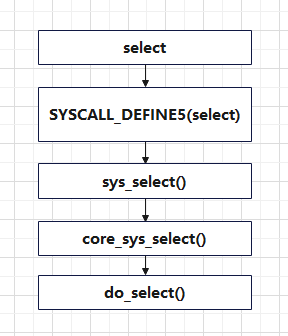
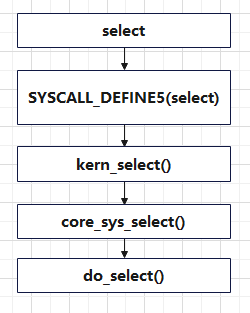
upload

diff --git a/06_Linux/04_Linux系统API/01_epoll接口.md b/06_Linux/04_Linux系统API/01_epoll接口.md
@@ -72,11 +72,104 @@
 >
 > 超时过期
 
-### 函数调用栈
+
+
+### 示例代码
+
+监听标准输入，设置超时时间为5S
+
+```c
+#include <stdio.h>
+#include <stdlib.h>
+#include <sys/time.h>
+#include <sys/types.h>
+#include <unistd.h>
+
+int main(void)
+{
+	fd_set rfds;
+	struct timeval tv;
+	int retval;
+
+	/* Watch stdin (fd 0) to see when it has input. */
+
+	FD_ZERO(&rfds);
+	FD_SET(0, &rfds);
+
+	/* Wait up to five seconds. */
+
+	tv.tv_sec = 5;
+	tv.tv_usec = 0;
+
+	retval = select(1, &rfds, NULL, NULL, &tv);
+	/* Don't rely on the value of tv now! */
+
+	if (retval == -1)
+		perror("select()");
+	else if (retval)
+		printf("Data is available now.\n");
+		/* FD_ISSET(0, &rfds) will be true. */
+	else
+		printf("No data within five seconds.\n");
+
+	exit(EXIT_SUCCESS);
+}
+```
+
+
+
+### 相关接口
+
+`fd_set`结构定义如下
+
+```c
+#define FD_SETSIZE 256
+typedef struct { uint32_t fd32[FD_SETSIZE/32]; } fd_set;
+```
+
+`FD_ZERO` 、`FD_SET`、 `FD_CLR`、`FD_ISSET`是 `POSIX` 标准中定义的宏，用于操作文件描述符集合（`fd_set`）。
+
+1. **FD_ZERO：** 这个宏用于将文件描述符集合清零，即清除集合中的所有文件描述符。通常用于初始化文件描述符集合，使其为空集。其原型如下：
+
+   ```c
+   void FD_ZERO(fd_set *set);
+   ```
+
+   其中，`set` 是一个指向 `fd_set` 结构体的指针，表示要清零的文件描述符集合。
+
+2. **FD_SET：** 这个宏用于将一个文件描述符添加到文件描述符集合中。其原型如下：
+
+   ```c
+   void FD_SET(int fd, fd_set *set);
+   ```
+
+   其中，`fd` 是要添加的文件描述符，`set` 是一个指向 `fd_set` 结构体的指针，表示要添加文件描述符的文件描述符集合。
+
+3. **FD_CLR：** 用于从文件描述符集合中清除（移除）一个文件描述符。
+
+   ```c
+   void FD_CLR(int fd, fd_set *set);
+   ```
+
+   其中，`fd` 是要清除的文件描述符，`set` 是一个指向 `fd_set` 结构体的指针，表示要清除文件描述符的文件描述符集合。
+
+4. **FD_ISSET：** 用于检查文件描述符集合中是否包含某个文件描述符。
+
+   ```c
+   int FD_ISSET(int fd, const fd_set *set);
+   ```
+
+   其中，`fd` 是要检查的文件描述符，`set` 是一个指向 `fd_set` 结构体的指针，表示要检查的文件描述符集合。如果文件描述符集合中包含指定的文件描述符，则返回非零值；否则返回零。
+
+
+
+### select函数调用栈
 
 ![01_select函数调用栈](.\img\01_select函数调用栈.png)
 
-### 源码分析
+
+
+#### 源码分析
 
 `select`方法的主要工作可分为3部分：
 
@@ -86,15 +179,124 @@
 
 `select`系统调用，最终的核心逻辑是在`do_select`函数中处理的，源码如下
 
-## do_select函数
+### kern_select函数
+
+计算函数超时时间，然后调用`core_sys_select`执行真正的`select`
+
+**核心逻辑如下**
+
+> 笔者注：下文代码已格式化处理，并适当简化只保留核心逻辑
+
+```c
+static int kern_select(int n, fd_set __user *inp, fd_set __user *outp,
+		       fd_set __user *exp, struct timeval __user *tvp)
+{
+	struct timespec64 end_time, *to = NULL;
+	struct timeval tv;
+	int ret;
+
+	if (tvp) {
+        // 从用户空间读取设置的超时时间
+		if (copy_from_user(&tv, tvp, sizeof(tv)))
+			return -EFAULT;
+
+		to = &end_time;
+        // 设置函数的的超时时间
+		if (poll_select_set_timeout(to,
+				tv.tv_sec + (tv.tv_usec / USEC_PER_SEC),
+				(tv.tv_usec % USEC_PER_SEC) * NSEC_PER_USEC))
+			return -EINVAL;
+	}
+
+	ret = core_sys_select(n, inp, outp, exp, to);
+	return poll_select_finish(&end_time, tvp, PT_TIMEVAL, ret);
+}
+```
+
+
+
+### core_sys_select函数
+
+**核心逻辑如下**
+
+> 笔者注：下文代码已格式化处理，并适当简化只保留核心逻辑
+
+```c
+int core_sys_select(int n, fd_set __user *inp, fd_set __user *outp,
+			   fd_set __user *exp, struct timespec64 *end_time)
+{
+	fd_set_bits fds;
+	void *bits;
+	int max_fds;
+	size_t size, alloc_size;
+	struct fdtable *fdt;
+	long stack_fds[SELECT_STACK_ALLOC/sizeof(long)];
+
+	fdt = files_fdtable(current->files);
+	// select可监控不能大于进程可打开的文件描述上限
+	max_fds = fdt->max_fds;
+	if (n > max_fds)
+		n = max_fds;
+
+	size = FDS_BYTES(n);
+	bits = stack_fds;
+	// 6个bitmaps对应(int/out/ex)
+	alloc_size = 6 * size;
+	bits = kvmalloc(alloc_size, GFP_KERNEL);
+
+	fds.in      = bits;
+	fds.out     = bits +   size;
+	fds.ex      = bits + 2*size;
+	fds.res_in  = bits + 3*size;
+	fds.res_out = bits + 4*size;
+	fds.res_ex  = bits + 5*size;
+
+	/*
+	 * 拷贝传入的inp、outp、exp的值存入fds的in、out、ex
+	 * 此处是将从用户空间传入的保存，后续传入内核空间
+	 */
+	get_fd_set(n, inp, fds.in);
+	get_fd_set(n, outp, fds.out);
+	get_fd_set(n, exp, fds.ex);
+
+	// 将fds的res_in、res_out、res_ex内容清零
+	zero_fd_set(n, fds.res_in);
+	zero_fd_set(n, fds.res_out);
+	zero_fd_set(n, fds.res_ex);
+
+	do_select(n, &fds, end_time);
+
+	/*
+	 * 使用入参的指针变量将执行后的fds结果传出
+	 * 将fds的res_in、res_out、res_ex结果拷贝到用户空间inp、outp、exp
+	 * 此处是将从内核空间的结果拷贝至用户空间
+	 */
+	set_fd_set(n, inp, fds.res_in);
+	set_fd_set(n, outp, fds.res_out);
+	set_fd_set(n, exp, fds.res_ex);
+
+	if (bits != stack_fds)
+		kvfree(bits);
+
+	return -EFAULT;
+}
+```
+
+**核心思想**
+
+`select`接口使用`fd_set_bits`结构保存记录文件描述符，`core_sys_select`函数中创建对应类型的变量。记录从用户空间传入的待检测文件描述符，使用`do_select`执行实际的监听动作，然后将结果传回用户空间。
+
+> 笔者注：严格地说数据在用户空间和内核空间互相传递并不是在这里完成的，经过`SYSCALL_DEFINE5(select)`的调用后已经进入内核态中。这里只是为方便理解而这样表述
+
+
+
+### do_select函数
 
 **函数核心思想**
 
-函数中，有几个关键的操作：
+函数主要做的事情，遍历传入的文件描述符检查哪些有变化
 
-1. 初始化`poll_wqueues`结构，包括几个关键函数指针的初始化，用于驱动中进行回调处理；
-2. 循环遍历监测的文件描述符，并且调用`f_op->poll()`函数，如果有监测条件满足，则会跳出循环；
-3. 在监测的文件描述符都不满足条件时，`poll_schedule_timeout`让当前进程进行睡眠，超时唤醒，或者被所属的等待队列唤醒；
+**函数整体采用了三层循环的设计，在下文中对这三层循环每一次进行讨论**
 
 **第一层循环**
 
@@ -328,9 +530,9 @@ for(;;)
 
 
 
-## file_operations->poll
+### file_operations->poll
 
-### 函数声明
+#### 函数声明
 
 在`linux-5.4\include\linux\fs.h`中可以看到`struct file_operations`的定义
 
@@ -340,12 +542,15 @@ typedef unsigned __bitwise __poll_t;
 
 struct file_operations {
 	...
+    /* read意为读、write意为写、poll意为检测，探询 */
+    ssize_t (*read) (struct file *, char __user *, size_t, loff_t *);
+	ssize_t (*write) (struct file *, const char __user *, size_t, loff_t *);
 	__poll_t (*poll) (struct file *, struct poll_table_struct *);
 	...
 } __randomize_layout;
 ```
 
-### 函数实现
+#### 函数实现
 
 `struct file_operations`中的`__poll_t`是在驱动代码中实现，不同驱动代码实现方式不同。但都会调用`poll_wait()`函数
 
@@ -394,82 +599,11 @@ static const struct file_operations proc_rtas_log_operations = {
 
 
 
-### 示例代码
+### select接口小结
 
-监听标准输入，设置超时时间为5S
+`select`接口底层使用`fd_set_bits`结构存储文件描述符位图，这个结构实际是`unsigned long`，将多个文件描述符存储在一起，每一位代表一个文件描述符。在用户配置好需要监听的文件描述符后，由用户空间传入内核空间中，调用内核文件系统提供的poll接口检测是否有变化。在获取到结果后将结果存入`fd_set_bits`结构中再从内核空间传回用户空间。
 
-```c
-#include <stdio.h>
-#include <stdlib.h>
-#include <sys/time.h>
-#include <sys/types.h>
-#include <unistd.h>
-
-int main(void)
-{
-	fd_set rfds;
-	struct timeval tv;
-	int retval;
-
-	/* Watch stdin (fd 0) to see when it has input. */
-
-	FD_ZERO(&rfds);
-	FD_SET(0, &rfds);
-
-	/* Wait up to five seconds. */
-
-	tv.tv_sec = 5;
-	tv.tv_usec = 0;
-
-	retval = select(1, &rfds, NULL, NULL, &tv);
-	/* Don't rely on the value of tv now! */
-
-	if (retval == -1)
-		perror("select()");
-	else if (retval)
-		printf("Data is available now.\n");
-		/* FD_ISSET(0, &rfds) will be true. */
-	else
-		printf("No data within five seconds.\n");
-
-	exit(EXIT_SUCCESS);
-}
-```
-### 相关接口
-
-`FD_ZERO` 、`FD_SET`、 `FD_CLR`、`FD_ISSET`是 `POSIX` 标准中定义的宏，用于操作文件描述符集合（`fd_set`）。
-
-1. **FD_ZERO：** 这个宏用于将文件描述符集合清零，即清除集合中的所有文件描述符。通常用于初始化文件描述符集合，使其为空集。其原型如下：
-
-   ```c
-   void FD_ZERO(fd_set *set);
-   ```
-
-   其中，`set` 是一个指向 `fd_set` 结构体的指针，表示要清零的文件描述符集合。
-
-2. **FD_SET：** 这个宏用于将一个文件描述符添加到文件描述符集合中。其原型如下：
-
-   ```c
-   void FD_SET(int fd, fd_set *set);
-   ```
-
-   其中，`fd` 是要添加的文件描述符，`set` 是一个指向 `fd_set` 结构体的指针，表示要添加文件描述符的文件描述符集合。
-
-3. **FD_CLR：** 用于从文件描述符集合中清除（移除）一个文件描述符。
-
-   ```c
-   void FD_CLR(int fd, fd_set *set);
-   ```
-
-   其中，`fd` 是要清除的文件描述符，`set` 是一个指向 `fd_set` 结构体的指针，表示要清除文件描述符的文件描述符集合。
-
-4. **FD_ISSET：** 用于检查文件描述符集合中是否包含某个文件描述符。
-
-   ```c
-   int FD_ISSET(int fd, const fd_set *set);
-   ```
-
-   其中，`fd` 是要检查的文件描述符，`set` 是一个指向 `fd_set` 结构体的指针，表示要检查的文件描述符集合。如果文件描述符集合中包含指定的文件描述符，则返回非零值；否则返回零。
+每一次的检测都需要对传入的位图进行遍历，还需要从用户空间和内核空间之间相互传递数据，同时监听的最大文件描述符受到进程可以打开的最大文件描述符数量限制。
 
 
 
